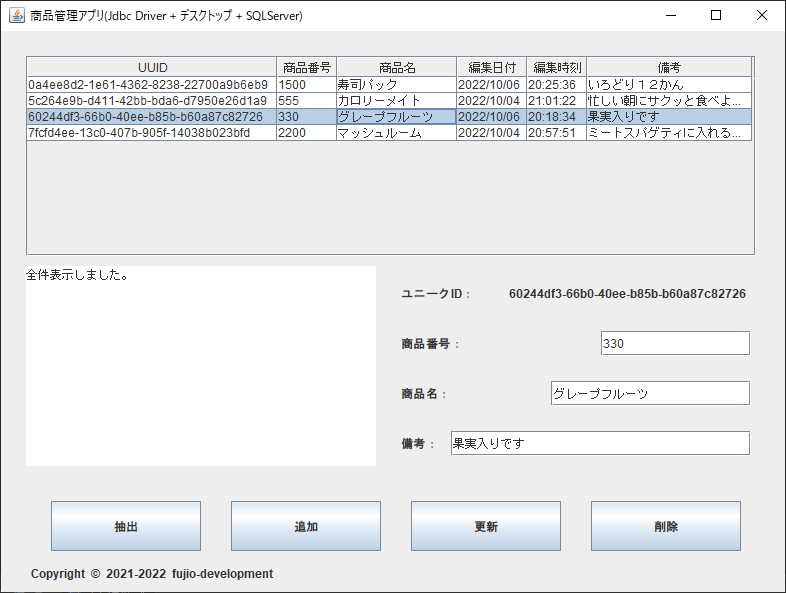
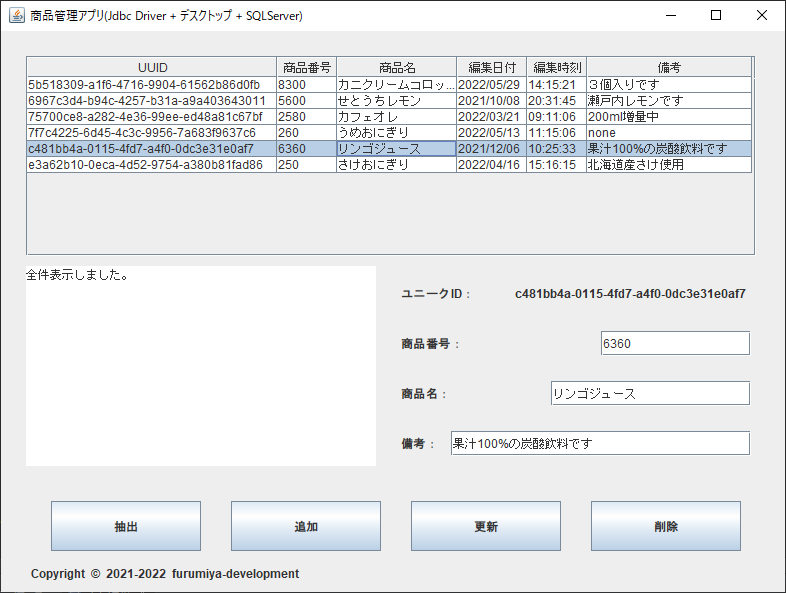
Win221126

diff --git a/src/main/java/desk/controls/Frame1Control.java b/src/main/java/desk/controls/Frame1Control.java
@@ -76,7 +76,10 @@ public class Frame1Control implements ActionListener, ListSelectionListener {
 				e.printStackTrace();
 			}
 			
-			var time = new StringBuilder(list.get(i).getEditTime().toString()).insert(4, ':').insert(2, ':');
+			var time = new StringBuilder(list.get(i).getEditTime().toString());
+			if (time.length() < 6)
+				time.insert(0, "0");
+			time = time.insert(4, ':').insert(2, ':');
 			Object[] obj = {list.get(i).getUniqueId(), 
 					list.get(i).getShohinCode(),
 	        		list.get(i).getShohinName(),
@@ -98,6 +101,7 @@ public class Frame1Control implements ActionListener, ListSelectionListener {
 			return;
 		}
 		
+		window.getLabelArea().append("1件追加しました。\n");
 		msgDialogModal("タイトル", "追加しました。", 1);
 	}
 	
@@ -108,22 +112,27 @@ public class Frame1Control implements ActionListener, ListSelectionListener {
         var note = window.getTextRemarks().getText();
         try {
         	service.editShohin(id, code, name, note);
-        	msgDialogModal("情報", "更新しました。", 1);
         }
         catch (DomainObjectException | BusinessAppException e) {
         	msgDialogModal("エラー", e.getMessage(), 2);
+        	return;
         }
+        
+        window.getLabelArea().append("1件更新しました。\n");
+        msgDialogModal("情報", "更新しました。", 1);
 	}
 	
 	private void erase() {
 		try {
 			service.removeShohin(window.getLabelUuid().getText());
-			window.getLabelArea().append("該当商品を削除しました。");
-			msgDialogModal("タイトル", "該当商品を削除しました。", 1);
 		}
 		catch (DomainObjectException | BusinessAppException e) {
         	msgDialogModal("エラー", e.getMessage(), 2);
+        	return;
         }
+		
+		window.getLabelArea().append("1件削除しました。\n");
+		msgDialogModal("タイトル", "該当商品を削除しました。", 1);
 	}
 	
 	private void msgDialogModal(String title, String message, int type) {

diff --git a/src/main/java/desk/models/domainobjects/VoTime.java b/src/main/java/desk/models/domainobjects/VoTime.java
@@ -10,7 +10,7 @@ import java.time.format.DateTimeParseException;
 public class VoTime extends ValueObject<VoTime> {
 
 	private final BigDecimal value;
-	private final DateTimeFormatter formatter = DateTimeFormatter.ofPattern("HHmmss");
+	private final DateTimeFormatter formatter = DateTimeFormatter.ofPattern("[]Hmmss");
 	
 	/** 完全コンストラクタ 
 	 * */
@@ -34,7 +34,11 @@ public class VoTime extends ValueObject<VoTime> {
 	/** コロン付きゲッター(00:00:00)
 	 * @return*/
 	public String getValueAndColonFormat() {
-		var time = new StringBuilder(value.toString()).insert(4, ':').insert(2, ':');
+		var time = new StringBuilder(value.toString());
+		if (time.length() < 6)
+			time.insert(0, "0");
+		time = time.insert(4, ':').insert(2, ':');
+		//var time = new StringBuilder(value.toString()).insert(4, ':').insert(2, ':');
 		return time.toString();
 	}
 	

diff --git a/src/main/java/desk/controls/Frame1Design.java b/src/main/java/desk/controls/Frame1Design.java
@@ -75,7 +75,7 @@ public class Frame1Design {
 		labelsSetting("label4", "備考：", 400, 400, 100, 25);
 		labelUuid.setHorizontalAlignment(JLabel.RIGHT);
 		labelUuid = (JLabel)componentsSetting(labelUuid, "labelUuid", 475, 250, 270, 25);
-		labelFoot.setText("Copyright  ©  2021-2022  fujio-development");
+		labelFoot.setText("Copyright  ©  2021-2022  furumiya-development");
 		labelFoot = (JLabel)componentsSetting(labelFoot, "labelFoot", 30, 530, 500, 25);
 		
 		textShohinCode = (JTextField)componentsSetting(textShohinCode, "textShohinCode", 600, 300, 150, 25);

diff --git a/README.md b/README.md
@@ -13,6 +13,26 @@ ___
 
 ![Img](Readme_img.png)  
 
+## 事前準備  
+### サンプルプログラムを実行する際のデータベース作成  
+Microsoft SQL Server Management Studioのクエリーで以下を実行するかこれ相当をデザイナで作成します。  
+
+**データベース作成(Microsoft SQL Server ManagementStudioでのデフォルト相当)**  
+※Microsoft SQL Server 2022 Express Editionで名前付きインスタンスがSQLEXPRESSの場合のクエリーです。  
+別のインスタンス名やSQL Server 2019などのバージョンの場合はPathのMSSQL16.SQLEXPRESS(ディレクトリ名)  
+の数字が違いますのでご自身のディレクトリ名に合わせて下さい。  
+
+```
+use [master]
+CREATE DATABASE JdbcSample
+ON
+(NAME=JdbcSample,FILENAME='C:\Program Files\Microsoft SQL Server\MSSQL16.SQLEXPRESS\MSSQL\DATA\JdbcSample.mdf',SIZE=8MB,FILEGROWTH=64MB)
+LOG ON
+(NAME=JdbcSample_log,FILENAME='C:\Program Files\Microsoft SQL Server\MSSQL16.SQLEXPRESS\MSSQL\DATA\JdbcSample_log.ldf',SIZE=8MB,FILEGROWTH=64MB)
+	
+ALTER DATABASE JdbcSample SET AUTO_CLOSE OFF
+```
+
 **テーブル作成**  
 ```
 use [master]
@@ -25,5 +45,9 @@ create table [JdbcSample].[dbo].[shohins] (
 	remarks varchar(255),               /*備考*/
 	primary key (unique_id))
 ```
+
+**SQL Server Configuration Manager**  
+
+SQL Server Browserの実行とTCP/IPの有効を適用して下さい。
 
 ___
